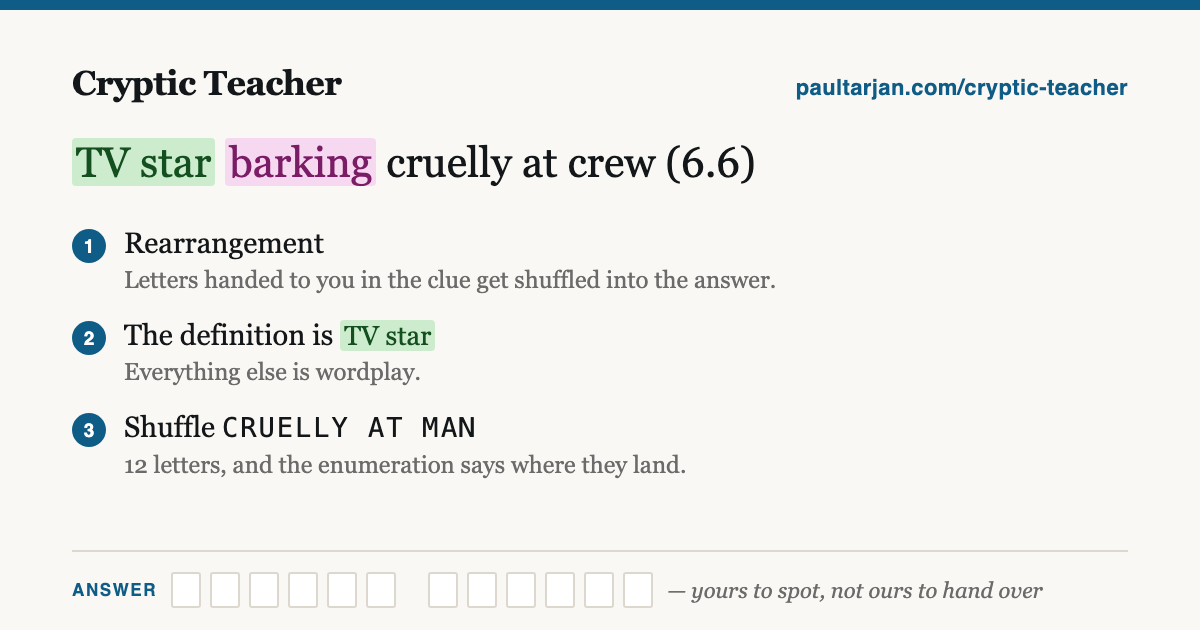
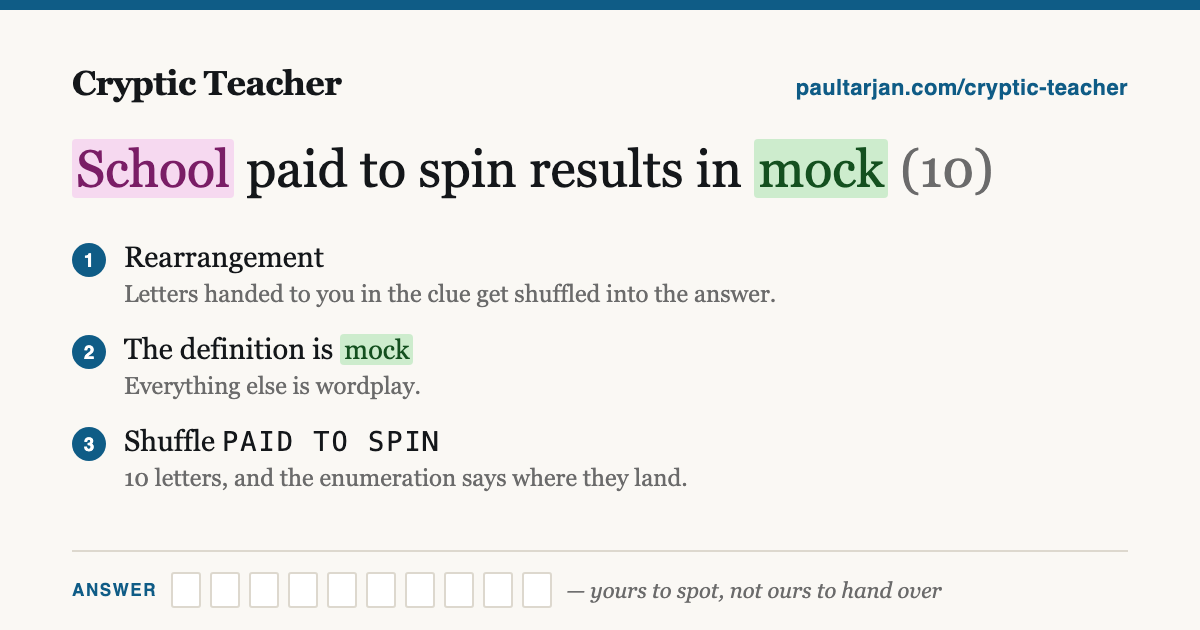
OG cards: only show anagram fodder the reader can find in the clue
30,079's annotation gives the fodder as CRUELLY AT MAN, but the clue says
"crew" — a rung reading "Shuffle CRUELLY AT MAN" over a clue with no MAN in
it asks the reader to take a substitution step the picture never shows. Such
clues now keep their indicator rung instead, and 30,079 falls back to another
clue in its own puzzle.

diff --git a/puzzles/30079/index.html b/puzzles/30079/index.html
@@ -16,8 +16,8 @@
 <meta property="og:title" content="Guardian Cryptic Crossword No 30,079 by Fed — answers explained">
 <meta property="og:description" content="Every clue in Guardian cryptic crossword No 30,079 by Fed, published 7 August 2026, with the answer, the definition and how the wordplay works.">
 <meta property="og:url" content="https://paultarjan.com/cryptic-teacher/puzzles/30079/">
-<meta property="og:image" content="https://paultarjan.com/cryptic-teacher/og/30079.png?v=ca5b1e33">
-<meta property="og:image:alt" content="The cryptic clue &quot;TV star barking cruelly at crew (6.6)&quot; taken apart: the definition marked, the letters to be rearranged spelled out, and the answer itself left blank.">
+<meta property="og:image" content="https://paultarjan.com/cryptic-teacher/og/30079.png?v=9271ecd4">
+<meta property="og:image:alt" content="The cryptic clue &quot;School paid to spin results in mock (10)&quot; taken apart: the definition marked, the letters to be rearranged spelled out, and the answer itself left blank.">
 <meta name="twitter:card" content="summary_large_image">
 <script type="application/ld+json">{"@context":"https://schema.org","@type":"Article","headline":"Guardian Cryptic Crossword No 30,079 by Fed — answers explained","url":"https://paultarjan.com/cryptic-teacher/puzzles/30079/","description":"Every clue in Guardian cryptic crossword No 30,079 by Fed, published 7 August 2026, with the answer, the definition and how the wordplay works.","author":{"@type":"Person","name":"Paul Tarjan","url":"https://paultarjan.com/"},"isAccessibleForFree":true,"about":{"@type":"Game","name":"Guardian Cryptic Crossword No 30,079"},"datePublished":"2026-08-07"}</script>
 <script type="application/ld+json">{"@context":"https://schema.org","@type":"BreadcrumbList","itemListElement":[{"@type":"ListItem","position":1,"name":"Cryptic Teacher","item":"https://paultarjan.com/cryptic-teacher/"},{"@type":"ListItem","position":2,"name":"Puzzles","item":"https://paultarjan.com/cryptic-teacher/puzzles/"},{"@type":"ListItem","position":3,"name":"Cryptic No 30,079"}]}</script>

diff --git a/tools/make_og_card.py b/tools/make_og_card.py
@@ -222,7 +222,14 @@ def plan(entry):
         # second mechanism stacked on top, the letters on the card are not the
         # letters that get shuffled, and a card that shows the wrong ones is
         # worse than a card that shows none.
-        if fodder and t == "anagram":
+        # And only when the reader can find every one of those letters on the
+        # card. Plenty of "anagram" annotations quietly substitute first: 30,079's
+        # fodder is CRUELLY AT MAN, but the clue says "crew", and a rung reading
+        # "Shuffle CRUELLY AT MAN" over a clue with no MAN in it asks the reader to
+        # take a step the picture never shows. Such a clue keeps its indicator rung.
+        if fodder and t == "anagram" and all(
+                re.search(rf"(?<![A-Za-z]){w}(?![A-Za-z])", clue, re.I)
+                for w in re.findall(r"[A-Za-z]+", fodder)):
             p["fodder"] = fodder
     except SystemExit:
         return None                                 # annotation and clue disagree
